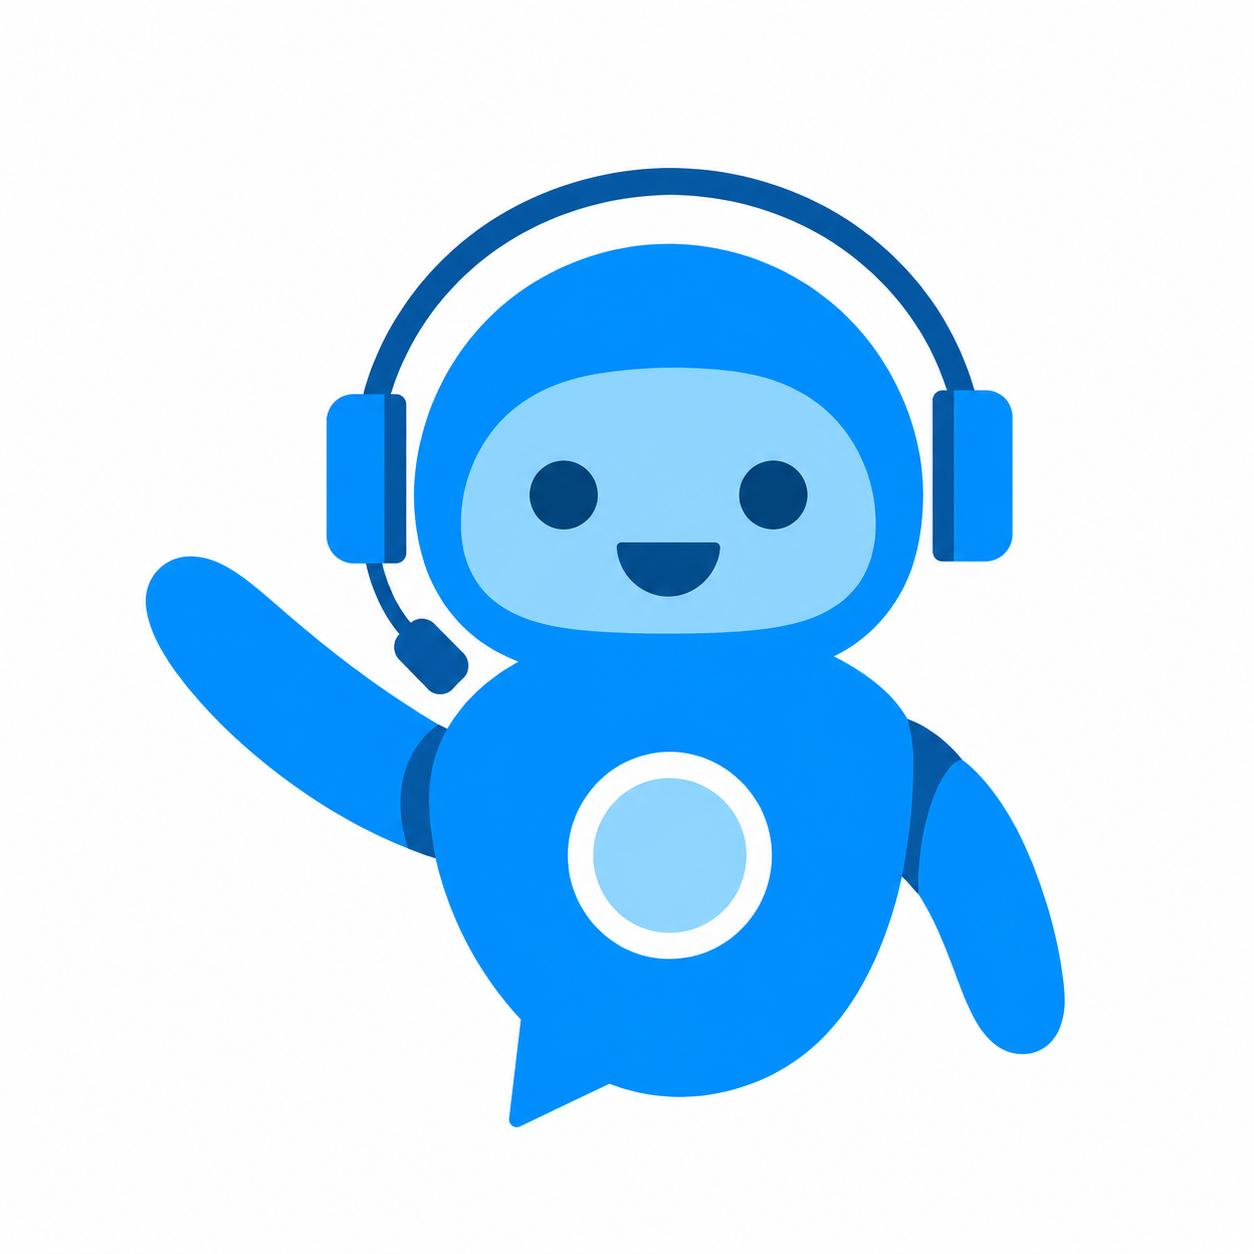
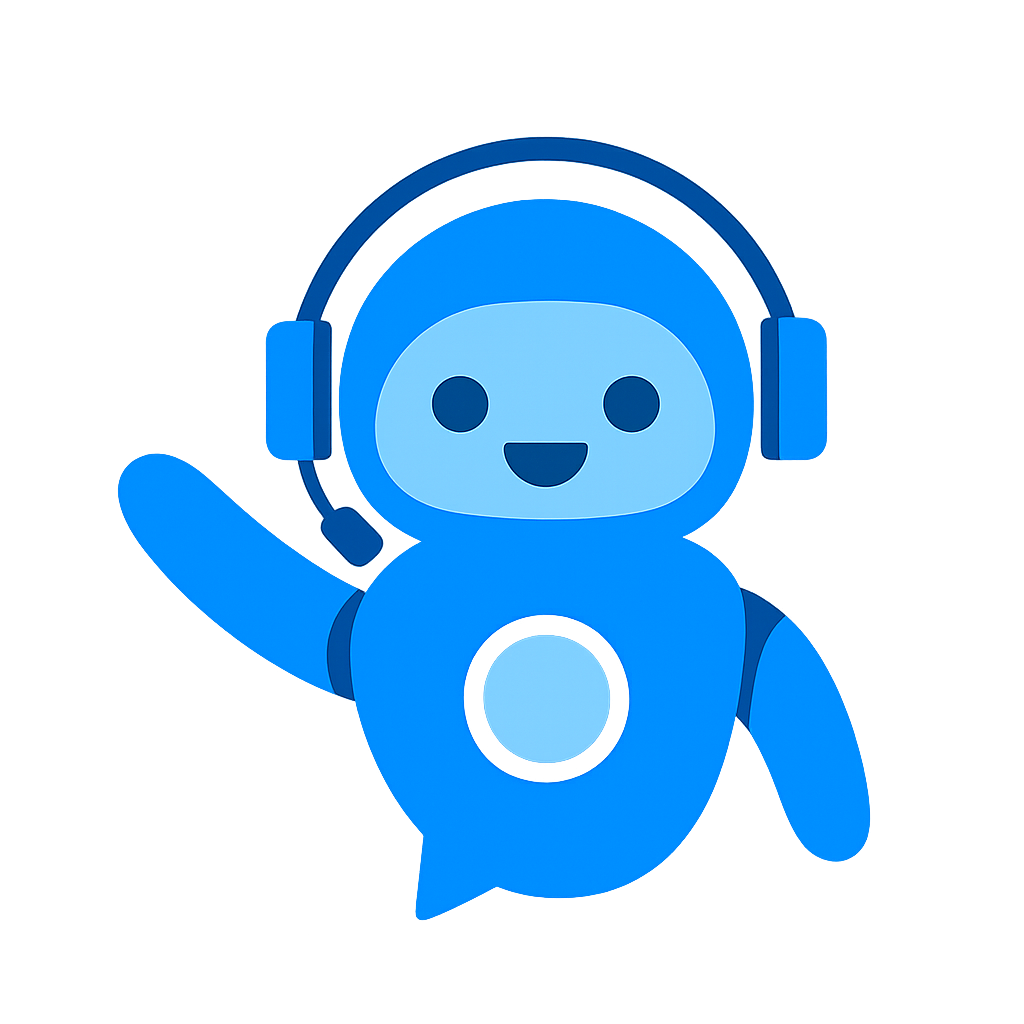
Updated Score Card UI,Analyzing Interview UI,Progress Bar UI

diff --git a/ResumeAi/src/pages/InterviewRoom.jsx b/ResumeAi/src/pages/InterviewRoom.jsx
@@ -34,15 +34,17 @@ const InterviewRoom = ({
     <>
       {/* Page 3 - Practice Question */}
 
-      <div className="w-full min-h-screen flex flex-col items-center justify-between  ">
+      <div className="w-full min-h-screen flex flex-col items-center">
+
+        {/* HEADER - always stays at the very top */}
         <div className="w-full text-center">
           <p className="  text-xl font-bold bg-sky-300 p-2 text-gray-50">
             {activeSection} Round
           </p>
         </div>
 
-        {/* TOP SECTION - Progress bar (75%) + buttons (25%) parallel */}
-        <div className="w-full flex items-center px-4 md:px-10 pt-2 md:pt-2 gap-3">
+        {/* TOP SECTION - Progress bar (75%) + buttons (25%) parallel. Stays fixed right under header, not affected by centering below */}
+        <div className="w-full flex items-center px-4 md:px-10 pt-3 mt-6 md:pt-2 gap-3">
           {/* Progress Bar - 75% */}
           <div className="w-[75%]">
             <div className="flex justify-between items-center mb-1 md:mb-2">
@@ -96,61 +98,63 @@ const InterviewRoom = ({
           </div>
         </div>
 
-        {/* LEFT SECTION */}
-        <div className="flex flex-col md:flex-row w-full px-6 md:px-10 mt-1 md:mt-5 gap-2 md:gap-4">
-          {/* ROBOT */}
-          <div className="flex justify-center md:w-1/4 w-full">
-            <div className="flex flex-col items-center">
-              <motion.img
-                src="mzlogo.png"
-                className="w-36 h-36 sm:w-40 sm:h-40 md:w-70 md:h-70 me-4"
-                initial={{}}
-                animate={{
-                  scale: isSpeaking ? [1, 1.04, 1] : 1,
-                }}
-                transition={{
-                  duration: 0.6,
-                  repeat: isSpeaking ? Infinity : 0,
-                  ease: "easeInOut",
-                }}
-              />
-              {/* voice wave in bottom of robot */}
-              {isSpeaking ? (
-                <div className="flex gap-2 mt-1 mb-4">
-                  {[...Array(6)].map((_, i) => (
-                    <motion.span
-                      key={i}
-                      className="w-2 h-6 bg-sky-300 rounded-full"
-                      animate={{ scaleY: [1, 2, 1] }}
-                      transition={{
-                        duration: 0.5,
+        {/* WRAPPER - only logo, question box, mic, skip go here. This is what moves down / centers on mobile */}
+       <div className="w-full flex flex-col items-center ">
+          {/* LEFT SECTION */}
+         <div className="flex flex-col md:flex-row w-full px-6 md:px-10 mt-6 md:mt-5 gap-2 md:gap-4">
+            {/* ROBOT */}
+            <div className="flex justify-center md:w-1/4 w-full">
+              <div className="flex flex-col items-center">
+                <motion.img
+                  src="mzlogo.png"
+                  className="w-44 h-44 sm:w-44 sm:h-44 md:w-70 md:h-70 me-4"
+                  initial={{}}
+                  animate={{
+                    scale: isSpeaking ? [1, 1.04, 1] : 1,
+                  }}
+                  transition={{
+                    duration: 0.6,
+                    repeat: isSpeaking ? Infinity : 0,
+                    ease: "easeInOut",
+                  }}
+                />
+                {/* voice wave in bottom of robot */}
+                {isSpeaking ? (
+                  <div className="flex gap-2 mt-1 mb-4">
+                    {[...Array(6)].map((_, i) => (
+                      <motion.span
+                        key={i}
+                        className="w-2 h-6 bg-sky-300 rounded-full"
+                        animate={{ scaleY: [1, 2, 1] }}
+                        transition={{
+                          duration: 0.5,
 
-                        repeat: Infinity,
+                          repeat: Infinity,
 
-                        delay: i * 0.1,
-                      }}
-                    />
-                  ))}
-                </div>
-              ) : (
-                <motion.p
-                  initial={{ opacity: 0, y: 10 }}
-                  animate={{ opacity: 1, y: 0 }}
-                  className="text-center mt-1 font-medium text-gray-600 text-sm md:text-base"
-                >
-                  Hi,I'm your interviewer! <br />
-                  <span className="text-gray-600">
-                    Start speaking When You Are Ready{" "}
-                  </span>
-                </motion.p>
-              )}
+                          delay: i * 0.1,
+                        }}
+                      />
+                    ))}
+                  </div>
+                ) : (
+                  <motion.p
+                    initial={{ opacity: 0, y: 10 }}
+                    animate={{ opacity: 1, y: 0 }}
+                    className="text-center mt-1 font-medium text-gray-600 text-sm md:text-base"
+                  >
+                    Hi,I'm your interviewer! <br />
+                    <span className="text-gray-600">
+                      Start speaking When You Are Ready{" "}
+                    </span>
+                  </motion.p>
+                )}
+              </div>
             </div>
-          </div>
 
-          {/* QUESTION BOX */}
-          <div className="flex flex-col md:w-200 w-full mt-1 md:mt-6">
-            <div
-              className="
+            {/* QUESTION BOX */}
+            <div className="flex flex-col md:w-200 w-full mt-4 md:mt-6">
+              <div
+                className="
     border border-gray-300
     rounded-tl-3xl rounded-tr-3xl rounded-br-3xl rounded-bl-md
     px-4 sm:px-8 lg:px-20
@@ -162,69 +166,71 @@ const InterviewRoom = ({
     bg-white
     overflow-hidden
   "
-            >
-              <AnimatePresence mode="wait">
-                <motion.p
-                  key={currentIndex}
-                  initial={{ x: 60, opacity: 0 }}
-                  animate={{ x: 0, opacity: 1 }}
-                  exit={{ x: -60, opacity: 0 }}
-                  transition={{ duration: 0.35, ease: "easeOut" }}
-                  className="text-sm sm:text-base md:text-xl font-semibold text-gray-800"
-                >
-                  Q{currentIndex + 1}.{" "}
-                  {questions[computedSection]?.[currentIndex]?.q}
-                </motion.p>
-              </AnimatePresence>
-            </div>
-
-            {/* Voice Wave Animation */}
-            {isRecording && (
-              <div className="voice-wave md:mt-50 md:me-20 mt-4 flex justify-center ">
-                {Array.from({ length: 10 }).map((_, i) => (
-                  <div key={i} className="wave-bar"></div>
-                ))}
+              >
+                <AnimatePresence mode="wait">
+                  <motion.p
+                    key={currentIndex}
+                    initial={{ x: 60, opacity: 0 }}
+                    animate={{ x: 0, opacity: 1 }}
+                    exit={{ x: -60, opacity: 0 }}
+                    transition={{ duration: 0.35, ease: "easeOut" }}
+                    className="text-sm sm:text-base md:text-xl font-semibold text-gray-800"
+                  >
+                    Q{currentIndex + 1}.{" "}
+                    {questions[computedSection]?.[currentIndex]?.q}
+                  </motion.p>
+                </AnimatePresence>
               </div>
-            )}
-          </div>
-        </div>
 
-        {/* BOTTOM BUTTONS */}
-        <div className="flex flex-col items-center justify-center mt-4 md:mt-10 gap-3 md:gap-6 mb-4 md:mb-5">
-          {/* SPEAK NOW BUTTON */}
-          <button
-            onClick={isRecording ? stopRecording : startRecording}
-            className={`w-28 h-28 rounded-full flex items-center justify-center shadow-xl transition-all border-none outline-none focus:outline-none appearance-none
+              {/* Voice Wave Animation */}
+              {isRecording && (
+                <div className="voice-wave md:mt-50 md:me-20 mt-4 flex justify-center ">
+                  {Array.from({ length: 10 }).map((_, i) => (
+                    <div key={i} className="wave-bar"></div>
+                  ))}
+                </div>
+              )}
+            </div>
+          </div>
+
+          {/* BOTTOM BUTTONS */}
+          <div className="flex flex-col items-center justify-center mt-20 md:mt-8 gap-3 md:gap-6 mb-4 md:mb-3">
+            {/* SPEAK NOW BUTTON */}
+            <button
+              onClick={isRecording ? stopRecording : startRecording}
+              className={`w-28 h-28 rounded-full flex items-center justify-center shadow-xl transition-all border-none outline-none focus:outline-none appearance-none
 ${isRecording
-                ? "bg-sky-400 animate-pulse ring-8 ring-sky-300/50"
-                : "bg-sky-300 hover:bg-sky-400"
-              }
+                  ? "bg-sky-400 animate-pulse ring-8 ring-sky-300/50"
+                  : "bg-sky-300 hover:bg-sky-400"
+                }
 `}
 
-          >
-            {isRecording ? (
-              <FaStop size={28} className="text-white md:hidden" />
-            ) : (
-              <FaMicrophone size={28} className="text-white md:hidden" />
-            )}
-            {isRecording ? (
-              <FaStop size={40} className="text-white hidden md:block" />
-            ) : (
-              <FaMicrophone size={40} className="text-white hidden md:block" />
-            )}
-          </button>
+            >
+              {isRecording ? (
+                <FaStop size={28} className="text-white md:hidden" />
+              ) : (
+                <FaMicrophone size={28} className="text-white md:hidden" />
+              )}
+              {isRecording ? (
+                <FaStop size={40} className="text-white hidden md:block" />
+              ) : (
+                <FaMicrophone size={40} className="text-white hidden md:block" />
+              )}
+            </button>
 
-          <button
-            onClick={skipQuestion}
-            disabled={isRecording}
-            className={`px-8 md:px-10 py-2 md:py-3 border rounded-xl text-gray-700 text-sm md:text-base
+            <button
+              onClick={skipQuestion}
+              disabled={isRecording}
+              className={`px-8 md:px-10 py-2 md:py-3 border rounded-xl text-gray-700 text-sm md:text-base
     ${isRecording
-                ? "opacity-40 cursor-not-allowed bg-gray-100"
-                : "hover:bg-gray-100"
-              }`}
-          >
-            Skip
-          </button>
+                  ? "opacity-40 cursor-not-allowed bg-gray-100"
+                  : "hover:bg-gray-100"
+                }`}
+            >
+              Skip
+            </button>
+          </div>
+
         </div>
       </div>
 

diff --git a/ResumeAi/src/components/InterviewCompleted.jsx b/ResumeAi/src/components/InterviewCompleted.jsx
@@ -12,7 +12,7 @@ const InterviewCompleted = ({ answered, skipped, onNextRound, feedback }) => {
   }, []);
 
   return (
-    <div className="fixed inset-0 z-50 bg-gradient-to-br from-pink-50 via-white to-purple-50 overflow-hidden font-sans">
+    <div className="fixed inset-0 z-50 bg-gradient-to-br from-sky-50 via-white to-purple-50 overflow-hidden font-sans">
       
       {/* 🎉 Confetti */}
       {showConfetti && (
@@ -30,9 +30,9 @@ const InterviewCompleted = ({ answered, skipped, onNextRound, feedback }) => {
               : "left-1/2 -translate-x-1/2"
           }`}
         >
-          <div className="bg-white rounded-3xl border border-pink-100 p-6 md:p-10 w-full max-w-[440px] text-center shadow-xl scale-90 md:scale-100">
+          <div className="bg-white rounded-3xl border border-sky-100 p-6 md:p-10 w-full max-w-[440px] text-center shadow-xl scale-90 md:scale-100">
             <img
-              src="/robot.png"
+              src="completed logo.png"
               alt="Completed"
               className="w-40 md:w-56 mx-auto -mt-20 md:-mt-28 mb-2 animate-float drop-shadow-md"
             />
@@ -54,14 +54,14 @@ const InterviewCompleted = ({ answered, skipped, onNextRound, feedback }) => {
             <div className="flex flex-col sm:flex-row gap-3 md:gap-4 mt-5 justify-center">
               <button
                 onClick={() => setShowFeedback((prev) => !prev)}
-                className="py-3 px-6 md:px-10 rounded-full bg-pink-400 text-white text-sm font-semibold hover:bg-pink-500 transition shadow-sm"
+                className="py-3 px-6 md:px-10 rounded-full bg-sky-400 text-white text-sm font-semibold hover:bg-sky-500 transition shadow-sm"
               >
                 {showFeedback ? "Hide Feedback" : "View Feedback"}
               </button>
 
               <button
                 onClick={onNextRound}
-                className="py-3 px-6 md:px-10 rounded-full border border-pink-300 text-pink-500 text-sm font-semibold hover:bg-pink-50 transition"
+                className="py-3 px-6 md:px-10 rounded-full border border-sky-300 text-sky-500 text-sm font-semibold hover:bg-sky-50 transition"
               >
                 Retry Again
               </button>
@@ -186,9 +186,9 @@ const InterviewCompleted = ({ answered, skipped, onNextRound, feedback }) => {
 };
 
 const StatCard = ({ label, value }) => (
-  <div className="rounded-xl border border-pink-100 bg-pink-50/50 py-2 md:py-4">
+  <div className="rounded-xl border border-sky-100 bg-sky-50/50 py-2 md:py-4">
     <p className="text-[10px] md:text-xs text-gray-500 font-medium">{label}</p>
-    <p className="text-lg md:text-xl font-bold text-pink-500">{value}</p>
+    <p className="text-lg md:text-xl font-bold text-sky-500">{value}</p>
   </div>
 );
 

diff --git a/ResumeAi/src/components/InterviewLoader.jsx b/ResumeAi/src/components/InterviewLoader.jsx
@@ -2,16 +2,16 @@ const InterviewLoader = ({ isAnalyzing }) => {
   if (!isAnalyzing) return null;
 
   return (
-    <div className="fixed inset-0 z-50 flex items-center justify-center bg-pink-100/80 backdrop-blur-md p-6 md:p-0">
+    <div className="fixed inset-0 z-50 flex items-center justify-center bg-sky-100/80 backdrop-blur-md p-6 md:p-0">
       <div className="rounded-3xl p-10 shadow-2xl flex flex-col items-center gap-6 animate-fadeIn">
 
         <img
-          src="/robot.png"
+          src="completed logo.png"
           alt="Robot"
           className="w-32 animate-bounceSlow"
         />
 
-        <h2 className="text-2xl font-bold text-pink-400 text-center">
+        <h2 className="text-2xl font-bold text-black-400 text-center">
           Analyzing Your Interview
         </h2>
 

diff --git a/ResumeAi/src/index.css b/ResumeAi/src/index.css
@@ -110,7 +110,7 @@
 .dot {
   width: 10px;
   height: 10px;
-  background-color: #ec4899;
+  background-color: #48b8ec;
   border-radius: 50%;
   animation: dotPulse 1.4s infinite ease-in-out;
 }